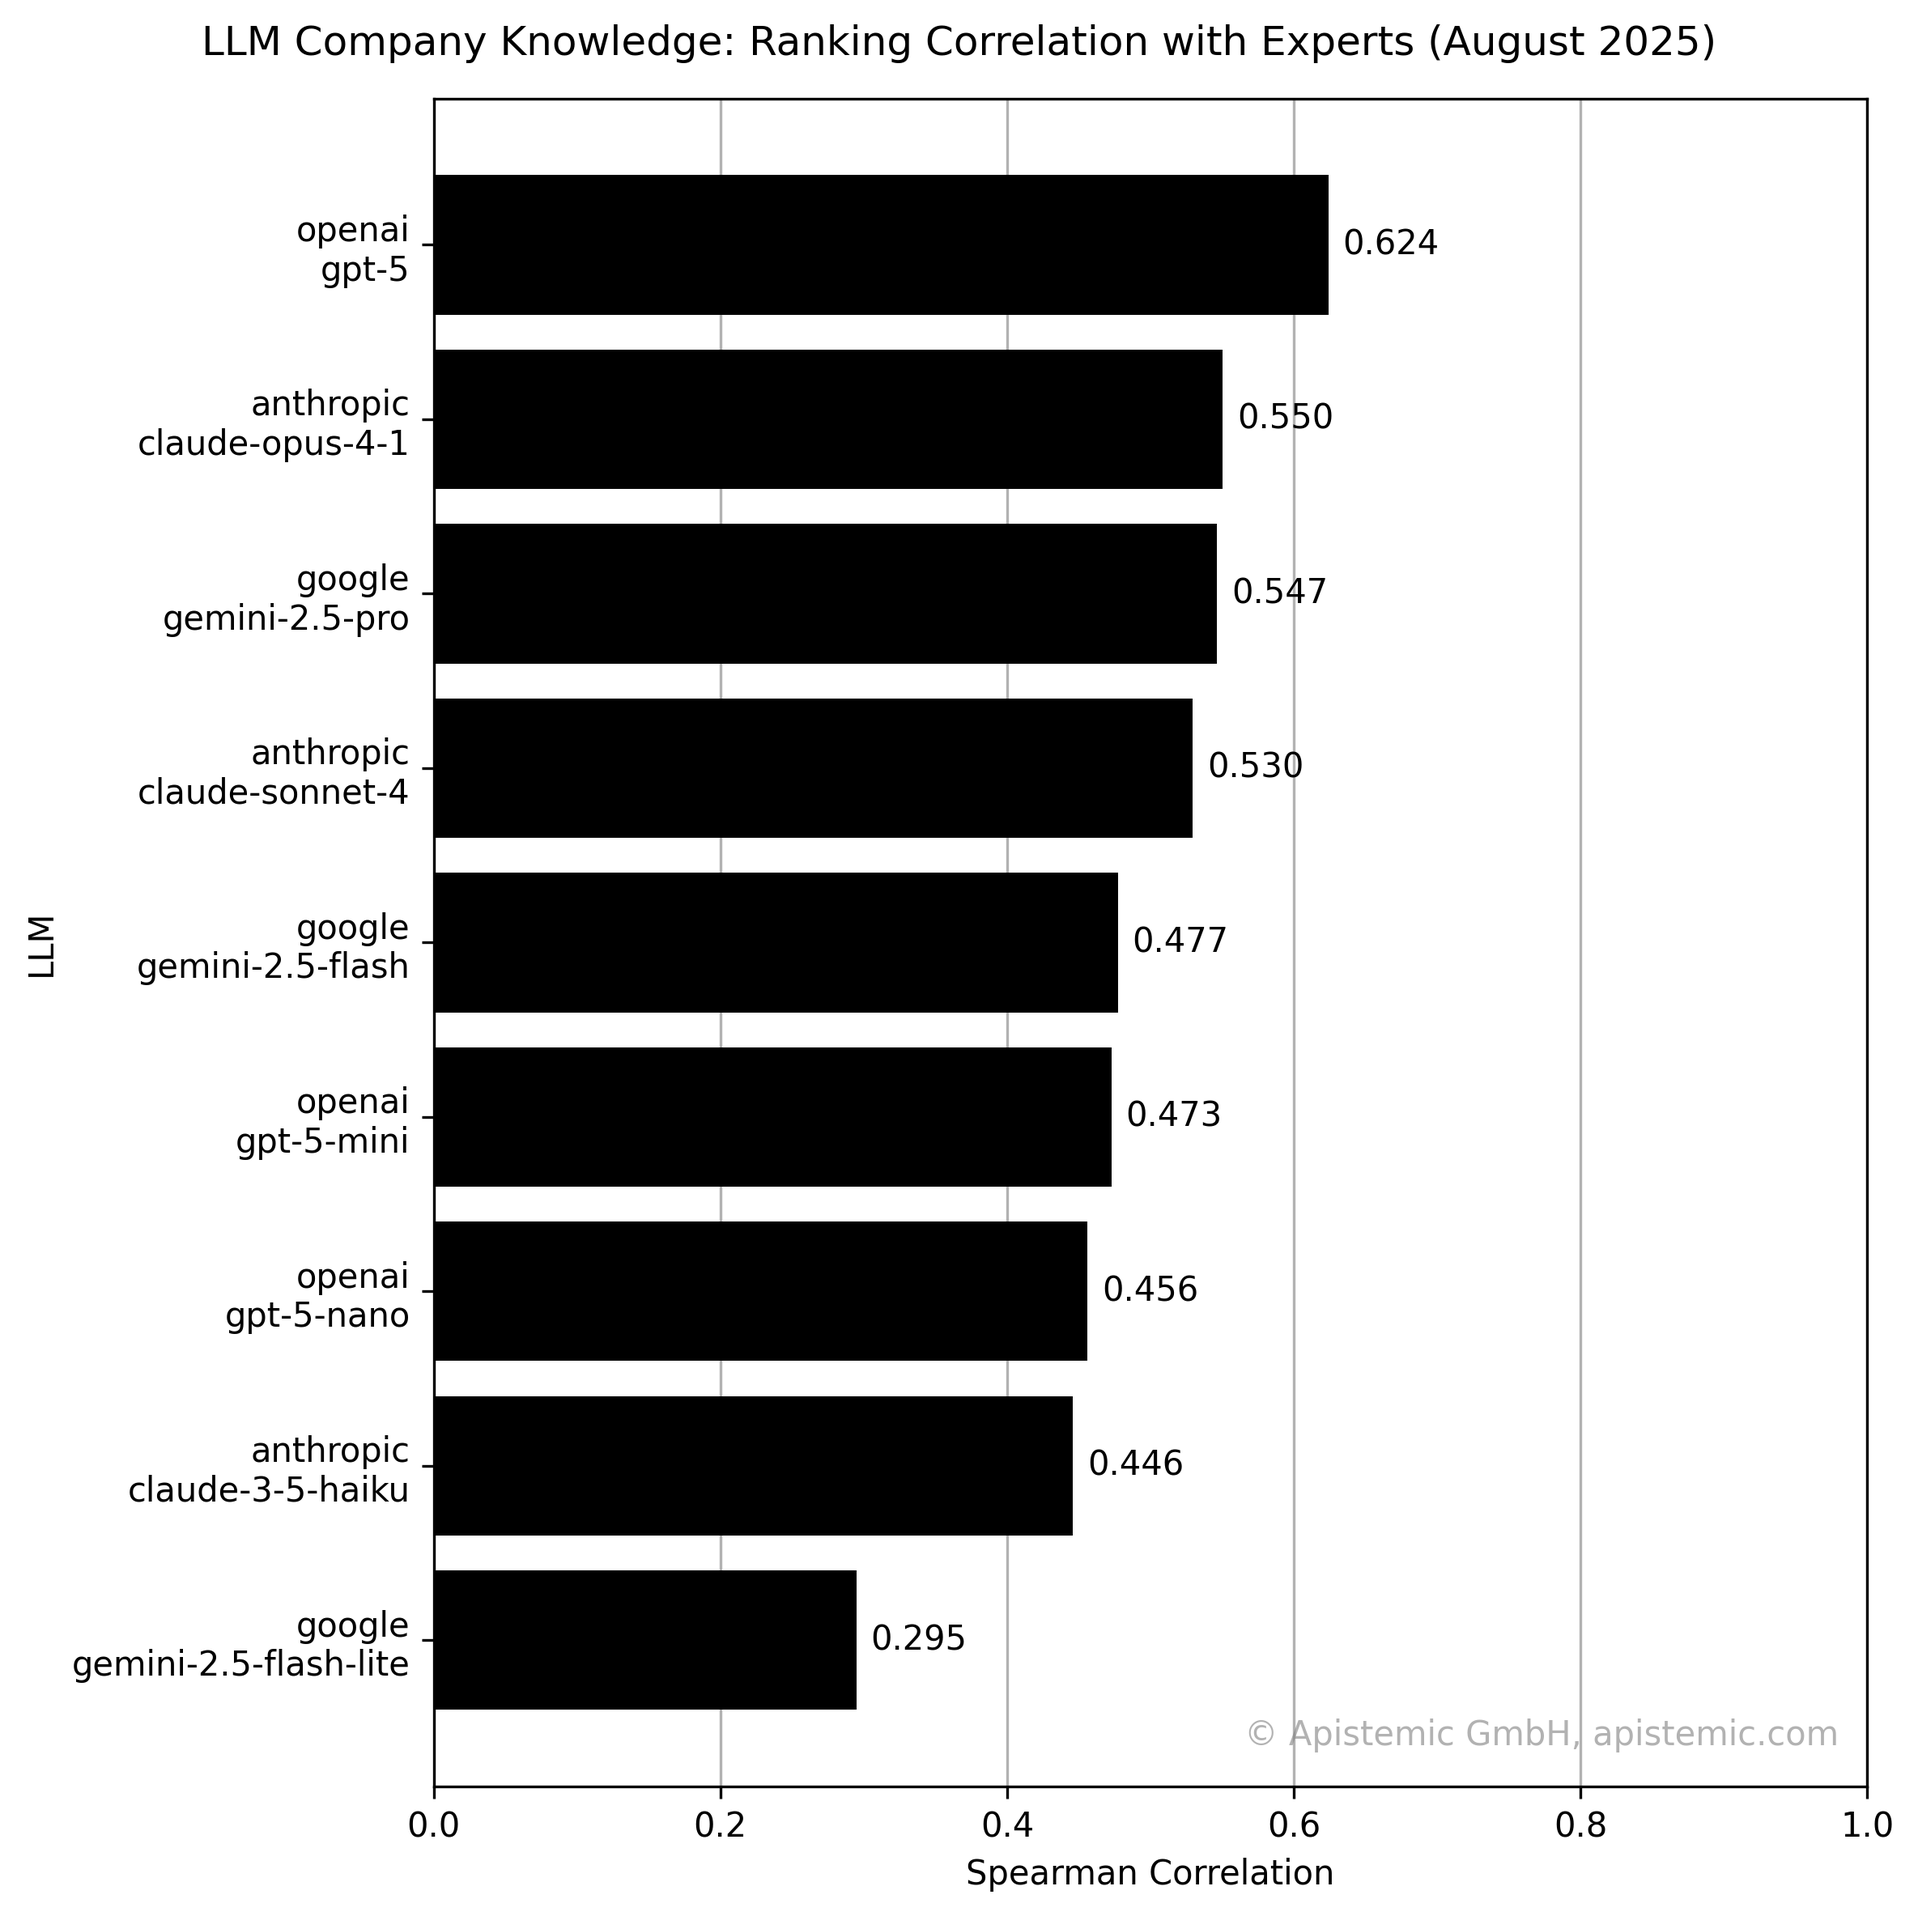
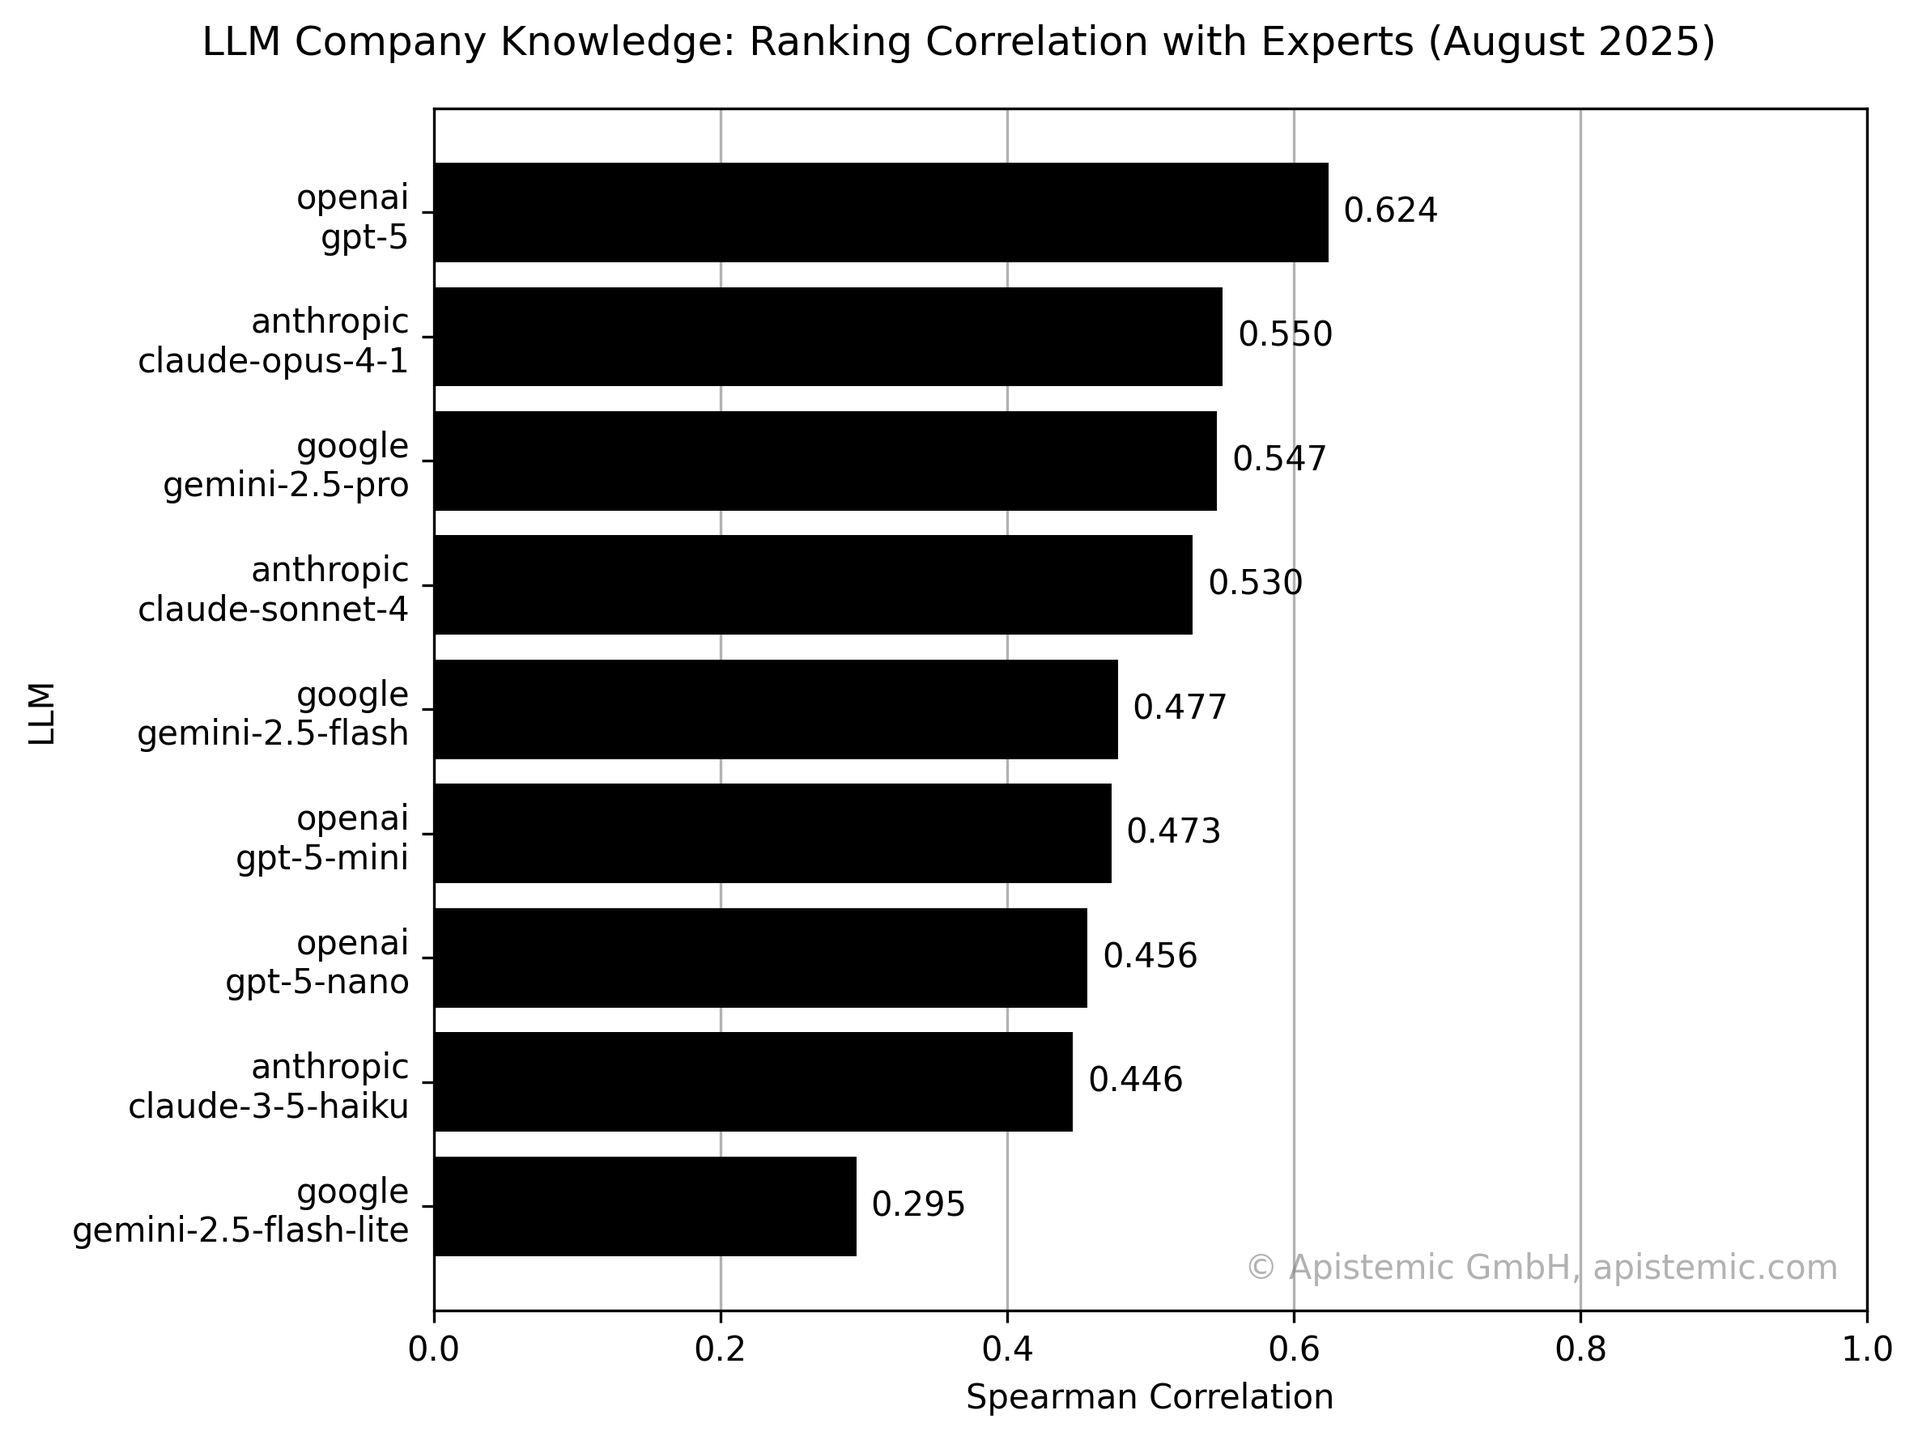
docs: Switch to 4:3 for plots

diff --git a/apistemic/benchmarks/plots.py b/apistemic/benchmarks/plots.py
@@ -5,8 +5,13 @@ import numpy as np
 
 from .models import EvaluationMetrics
 
+DEFAULT_FIGSIZE = (8, 6)
 
-def create_box_plot(all_results: dict[str, list[EvaluationMetrics]]) -> None:
+
+def create_box_plot(
+    all_results: dict[str, list[EvaluationMetrics]],
+    figsize: tuple[float, float] = DEFAULT_FIGSIZE,
+) -> None:
     """Create box plot of R² scores by model."""
     # Sort models by median R² score in ascending order (lowest bottom, highest top)
     models = sorted(
@@ -20,7 +25,7 @@ def create_box_plot(all_results: dict[str, list[EvaluationMetrics]]) -> None:
         r2_scores.append(model_r2_scores)
 
     plt.style.use("grayscale")
-    plt.figure(figsize=(8, 8))
+    plt.figure(figsize=figsize)
     plt.tight_layout()
     plt.boxplot(r2_scores, tick_labels=models, patch_artist=False, vert=False)
 
@@ -51,7 +56,10 @@ def create_box_plot(all_results: dict[str, list[EvaluationMetrics]]) -> None:
         print(f"  Max R²:  {np.max(model_r2_scores):.4f}")
 
 
-def create_r2_plot(results: dict[str, EvaluationMetrics]) -> None:
+def create_r2_plot(
+    results: dict[str, EvaluationMetrics],
+    figsize: tuple[float, float] = DEFAULT_FIGSIZE,
+) -> None:
     """Create bar plot of R² scores by LLM model."""
     # Sort models by R² score in ascending order (lowest at bottom, highest at top)
     models = sorted(results.keys(), key=lambda x: results[x].r2)
@@ -67,7 +75,7 @@ def create_r2_plot(results: dict[str, EvaluationMetrics]) -> None:
             display_names.append(model)
 
     plt.style.use("grayscale")
-    plt.figure(figsize=(8, 8))
+    plt.figure(figsize=figsize)
     bars = plt.barh(range(len(models)), r2_scores)
 
     today = get_date_str()
@@ -98,7 +106,10 @@ def create_r2_plot(results: dict[str, EvaluationMetrics]) -> None:
     plt.savefig(".data/plots/r2-scores-barplot.png", dpi=300, bbox_inches="tight")
 
 
-def create_spearman_plot(results: dict[str, EvaluationMetrics]) -> None:
+def create_spearman_plot(
+    results: dict[str, EvaluationMetrics],
+    figsize: tuple[float, float] = DEFAULT_FIGSIZE,
+) -> None:
     """Create bar plot of Spearman correlations by LLM model."""
     # Sort models by Spearman correlation ascending (lowest bottom, highest top)
     models = sorted(results.keys(), key=lambda x: results[x].spearman_corr)
@@ -114,7 +125,7 @@ def create_spearman_plot(results: dict[str, EvaluationMetrics]) -> None:
             display_names.append(model)
 
     plt.style.use("grayscale")
-    plt.figure(figsize=(8, 8))
+    plt.figure(figsize=figsize)
     bars = plt.barh(range(len(models)), spearman_corrs)
 
     today = get_date_str()
